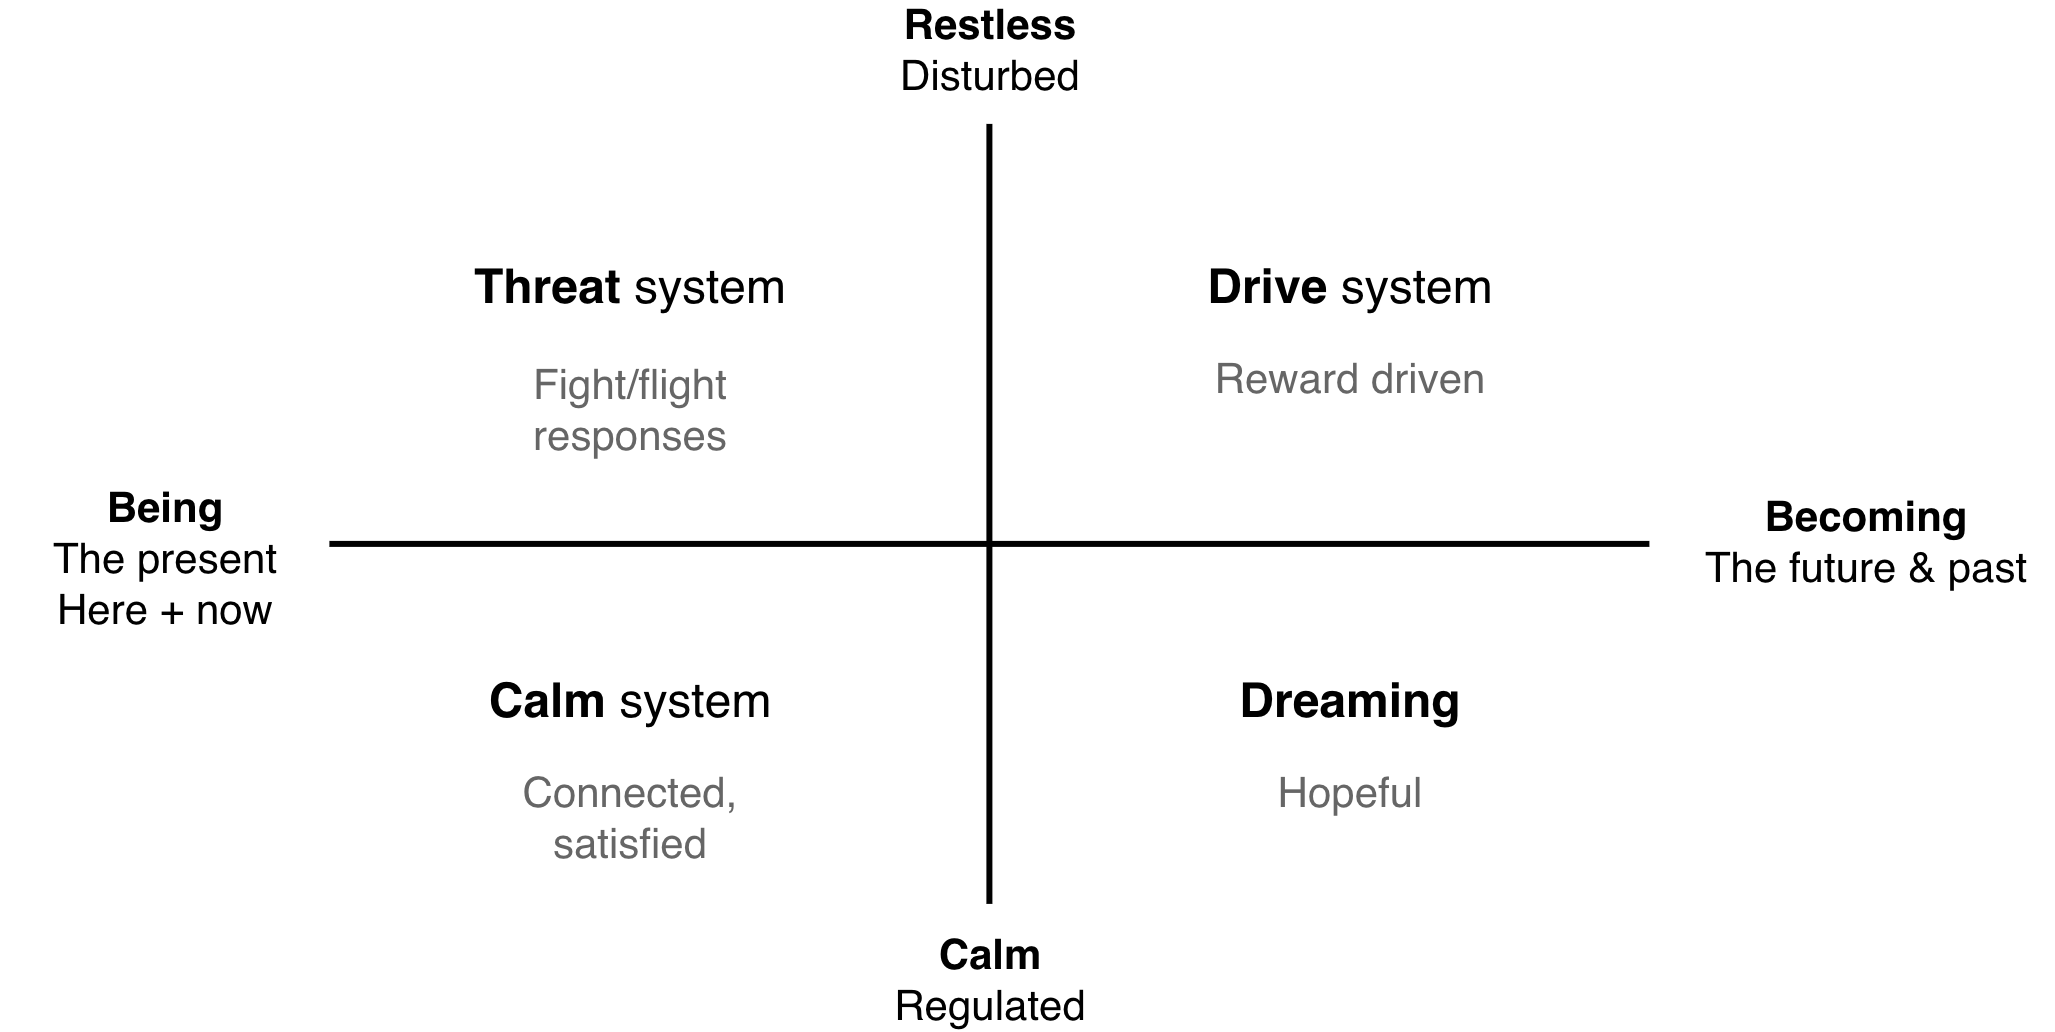
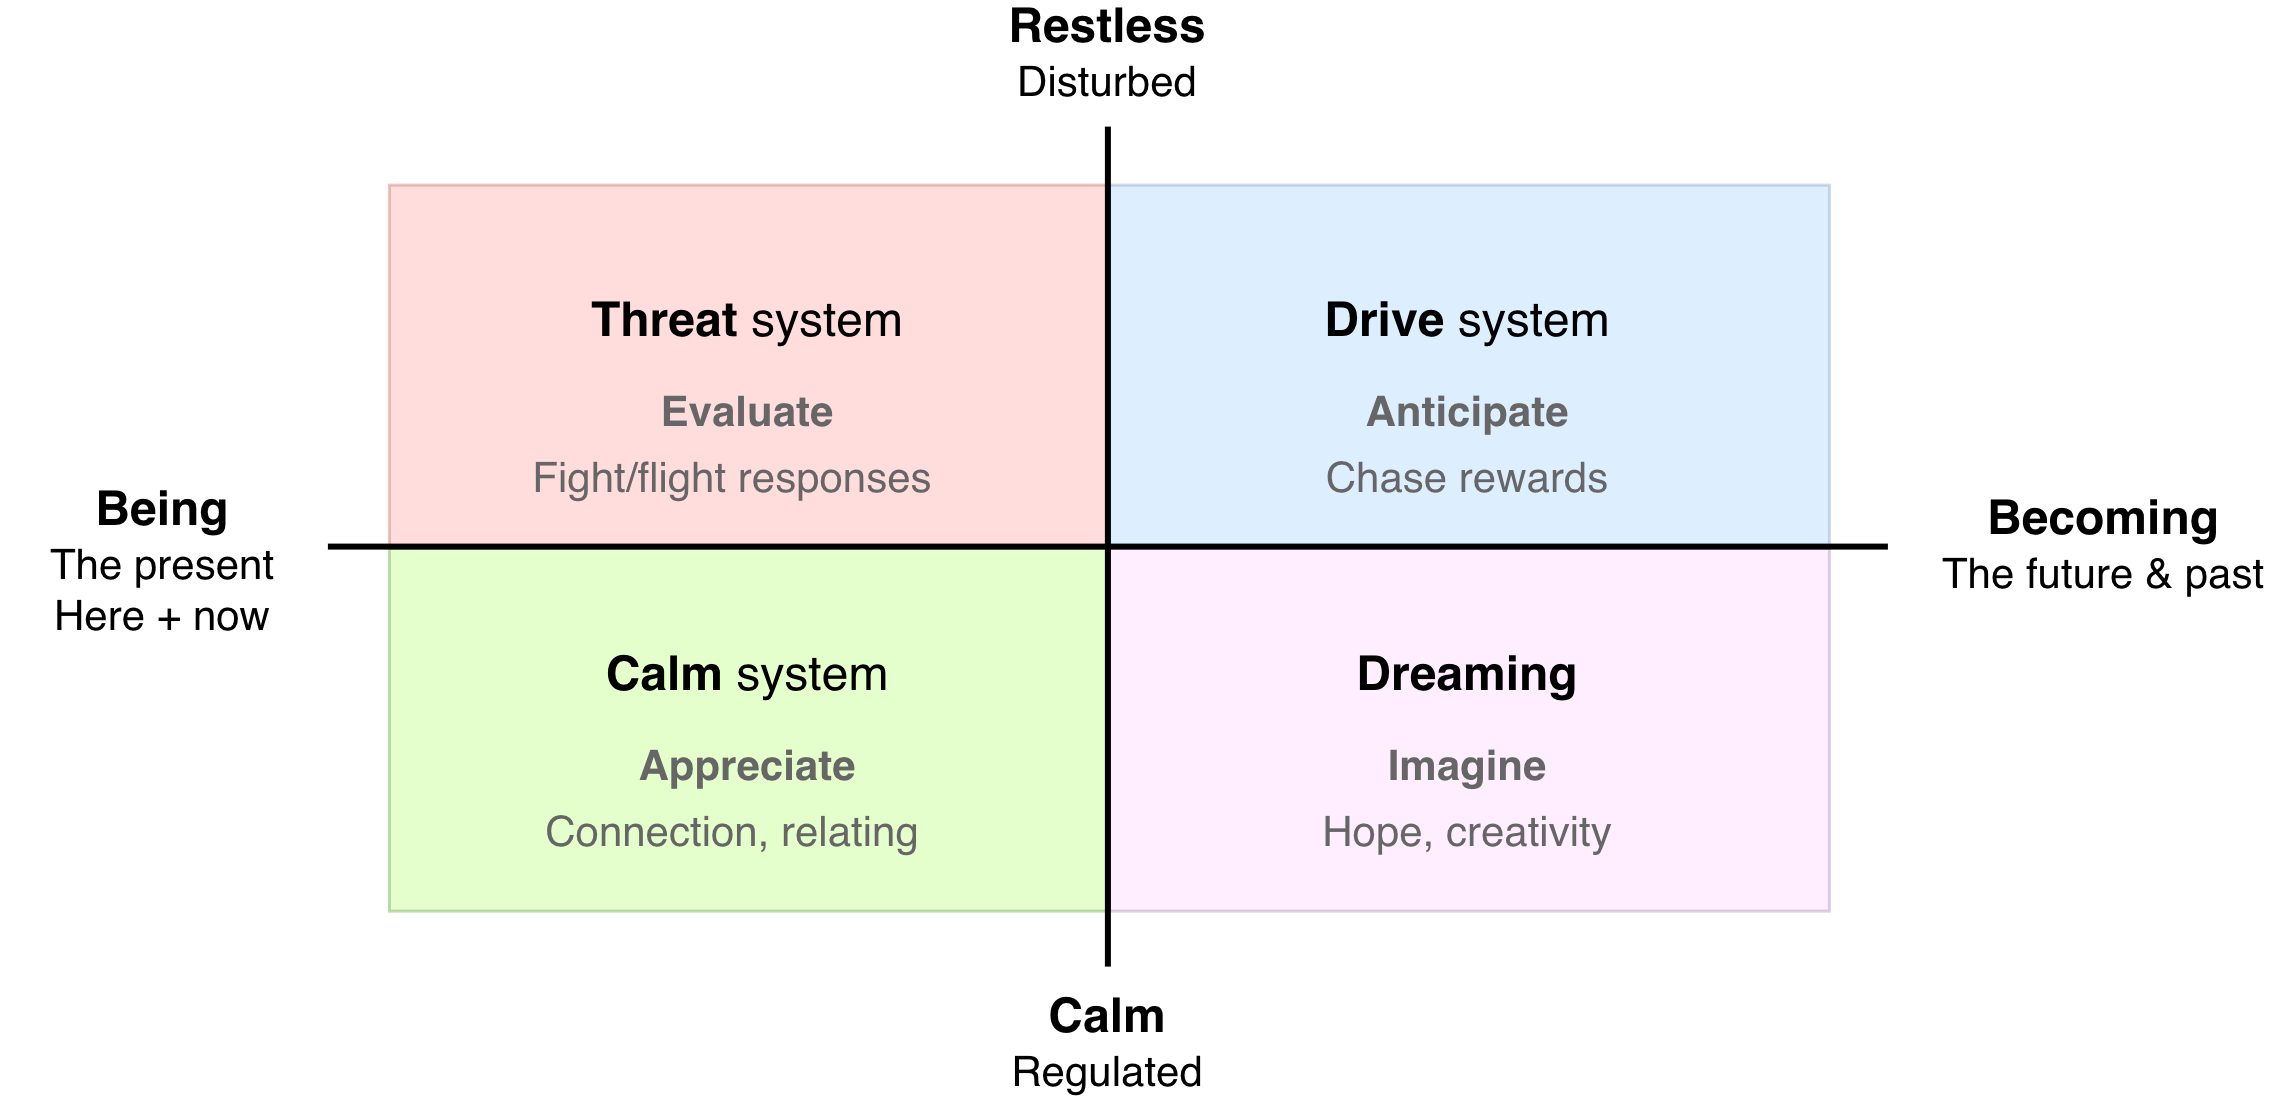
color imgs

diff --git a/psychology/emotion-regulation-overview.md b/psychology/emotion-regulation-overview.md
@@ -4,26 +4,35 @@ States of the nervous system. States of mind.
 
 [toc]
 
-## Being-Becoming
+## Duality. Being and Becoming
 
 See [being-becoming](being-becoming.md).
 
 <img src="../img/being-becoming-immersion.png" alt="being-becoming-immersion" style="width:36em;" />
 
-## Threat/Drive/Calm System
+## Triangle: Threat/Drive/Calm Systems
 
-The being-becoming model can be extended by a third component: threat responses. See [nervous-system-triangle.md](nervous-system-triangle.md).
+The being-becoming model can be extended by a third component: threat responses. See [nervous-system-triangle](nervous-system-triangle.md).
 
-<img src="../img/triangle-threat-drive-calm.png" alt="triangle-threat-drive-calm" style="width:36em;" />
+<img src="../img/triangle-threat-drive-calm.png" alt="triangle-threat-drive-calm" style="width:39em;" />
 
-| Threat System          | Drive System               | Calm System |
-| ---------------------- | -------------------------- | ----------- |
-| React to threats       | Progress towards rewards   | Relax       |
-| Fight/flight responses | Dopamine seeking behaviour | Peace, rest |
+| Threat System          | Drive System (Becoming)    | Calm System (Being) |
+| ---------------------- | -------------------------- | ------------------- |
+| React to threats       | Progress towards rewards   | Relax               |
+| Fight/flight responses | Dopamine seeking behaviour | Peace, rest         |
+
+### Quadrants. Reality and Imagination
+
+The calm system can be divided in grounded, present calmth and states of dreaming and imagination. This yields two independent dimensions. See [being-becoming](being-becoming.md).
+
+- Being and becoming. Being refers to the present and becoming to the non-present.
+- Calm (rested or dreaming) and restless (threats and reward seeking)
+
+<img src="../img/quadrants-calm-threat-drive-dream.png" alt="quadrants-calm-threat-drive-dream" style="width:60em;" />
 
 ### Fight/Flight Responses
 
-The threat system can be decomposed into fight/flight/freeze/fawn responses. See [nervous-system](nervous-system.md).
+The **threat system** can be decomposed into fight/flight/freeze/fawn responses. See [nervous-system](nervous-system.md).
 
 <img src="../img/fight-flight-freeze-fawn.png" alt="fight-flight-freeze-fawn" style="width:30em;" />
 
@@ -37,7 +46,9 @@ See [experience](../subjects/experience.md)
 
 ## Related Models
 
-See [productivity-constraints](../teams/productivity-constraints.md)
+4G model: gebeurtenis gedachte gevoel gedrag (event, thought, feeling, action)
+
+[4 Productivity Constraints](../teams/productivity-constraints.md)
 
 <img src="../img/dragon-productivity-cycle.jpg" alt="dragon-productivity-cycle" style="width:24em;" />
 

diff --git a/psychology/being-becoming.md b/psychology/being-becoming.md
@@ -12,6 +12,6 @@ Not to be confused with [being-becoming](../metaphysics/being-becoming.md) in ph
 
 > **Stress** is the distance between the world as you see it and the world as you wish it to be.
 
-The being-becoming model can be extended by stress levels. A dimension from calmness to restlessness. See [nervous-system-triangle](nervous-system-triangle.md).
+The being-becoming model can be extended by stress levels (reslessness). From calm to active and restlessness. See also [nervous-system-triangle](nervous-system-triangle.md).
 
-<img src="../img/quadrants-calm-threat-drive-dream.png" alt="quadrants-calm-threat-drive-dream" style="width:51em;" />
+<img src="../img/quadrants-calm-threat-drive-dream.png" alt="quadrants-calm-threat-drive-dream" style="width:60em;" />

diff --git a/psychology/nervous-system-triangle.md b/psychology/nervous-system-triangle.md
@@ -9,6 +9,11 @@ See the [Three Systems Model](https://balancedminds.com/three-system-model/).
 | React to threats       | Progress towards rewards   | Relax       |
 | Fight/flight responses | Dopamine seeking behaviour | Peace, rest |
 
+Notes
+
+- Dreaming and imagination would fit in the calm system.
+- Sexual arousal can fit in all three systems. The drive system is the most typical, as the body is activated and full of desire. The calm system will be active in more softer forms. Activation of the threat system can work in tow fashions. To heighten arousal (excitement) or to produce anxiety or other stressful emotions.
+
 ### Analogy: Ships
 
 <img src="../img/storm-sail-harbour.jpg" alt="storm-voyage-harbour" style="width:42em;" />
